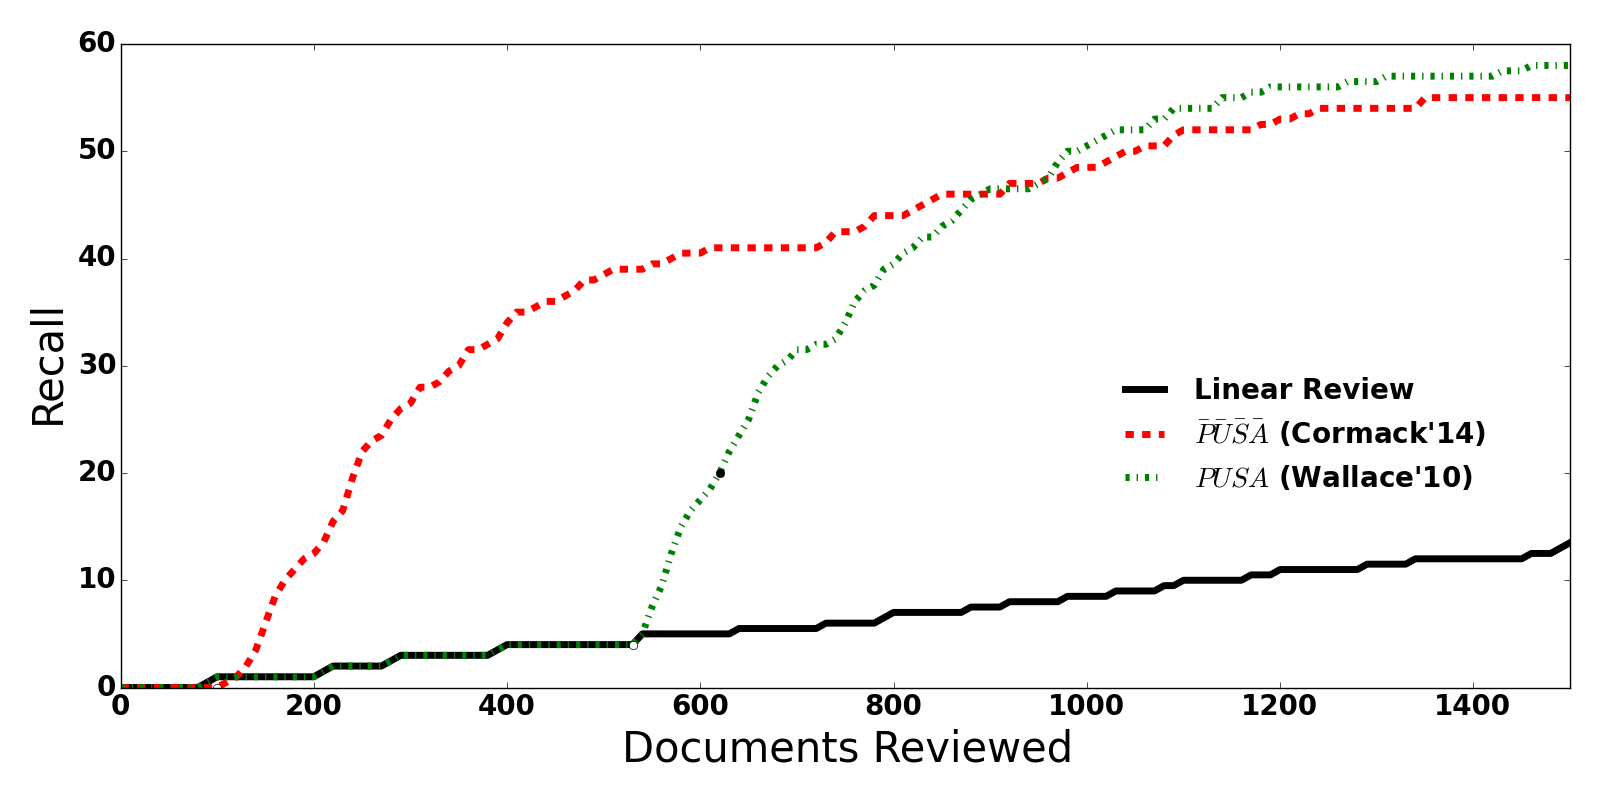
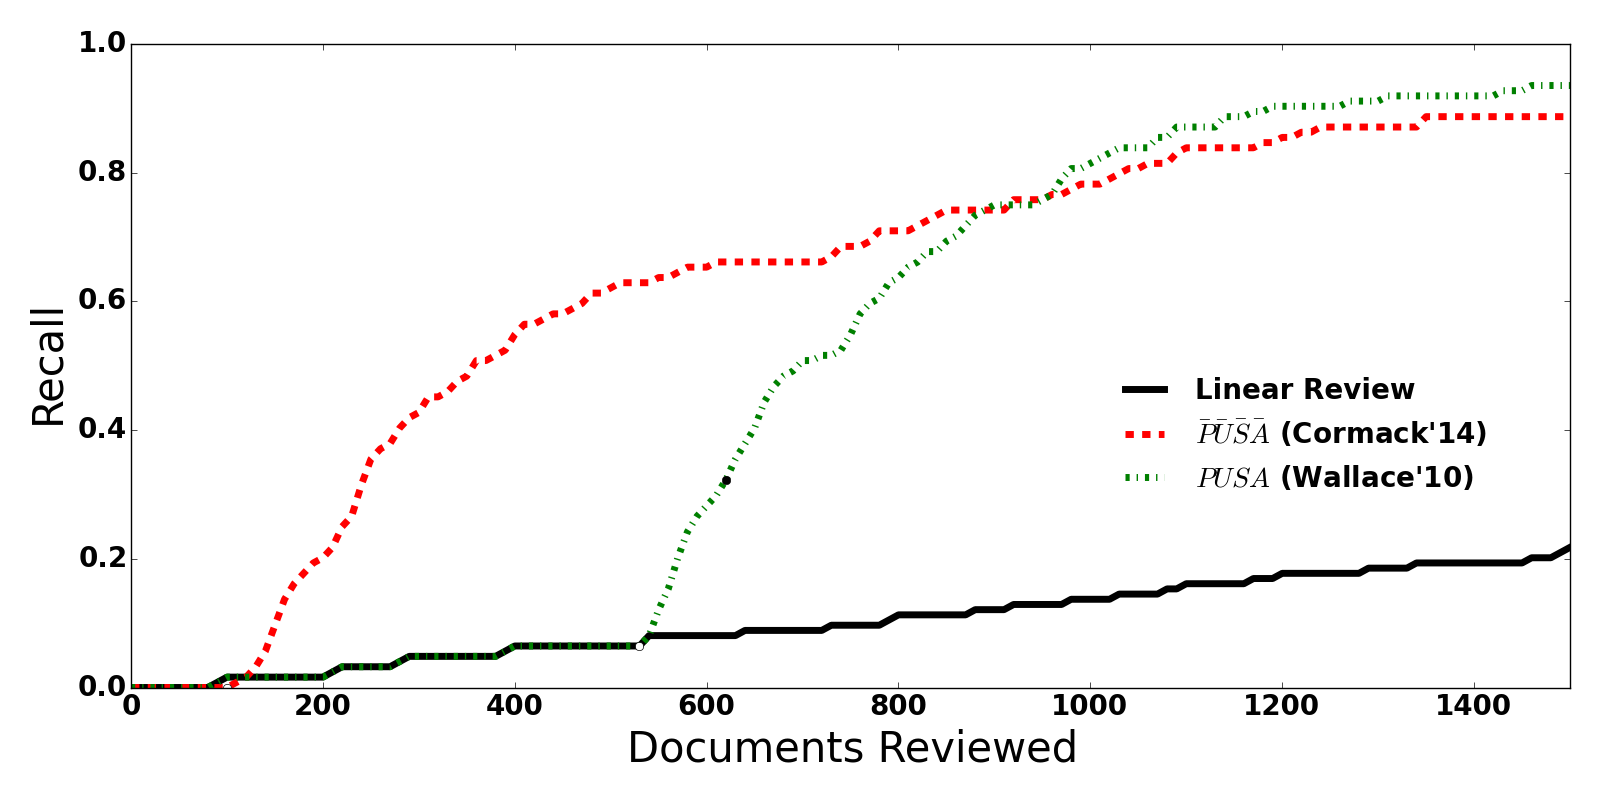
update

diff --git a/Learning_assisted_review/src/runner.py b/Learning_assisted_review/src/runner.py
@@ -1419,7 +1419,8 @@ def demo_draw(set,far):
     medians1, iqrs1 = wrap_repeat(result1)
     medians5, iqrs5 = wrap_repeat(result5)
     # iqrs0 = rescale(iqrs0)
-    # medians1 = rescaleY(medians1,62)
+    medians1 = rescaleY(medians1,62)
+    medians5 = rescaleY(medians5,62)
     # iqrs1 = rescale(iqrs1)
     #################
     lines = ['-', '--', '-.', ':']
@@ -1434,7 +1435,7 @@ def demo_draw(set,far):
 
     # line, = plt.plot(medians1['x'][:far], medians1["new_continuous_aggressive"][:far],label="FASTREAD",linestyle=lines[0], color='blue')
 
-    plt.ylim([0,60])
+    plt.ylim([0,1])
     plt.xlim([0,1500])
     plt.ylabel("Recall")
     plt.xlabel("Documents Reviewed")
